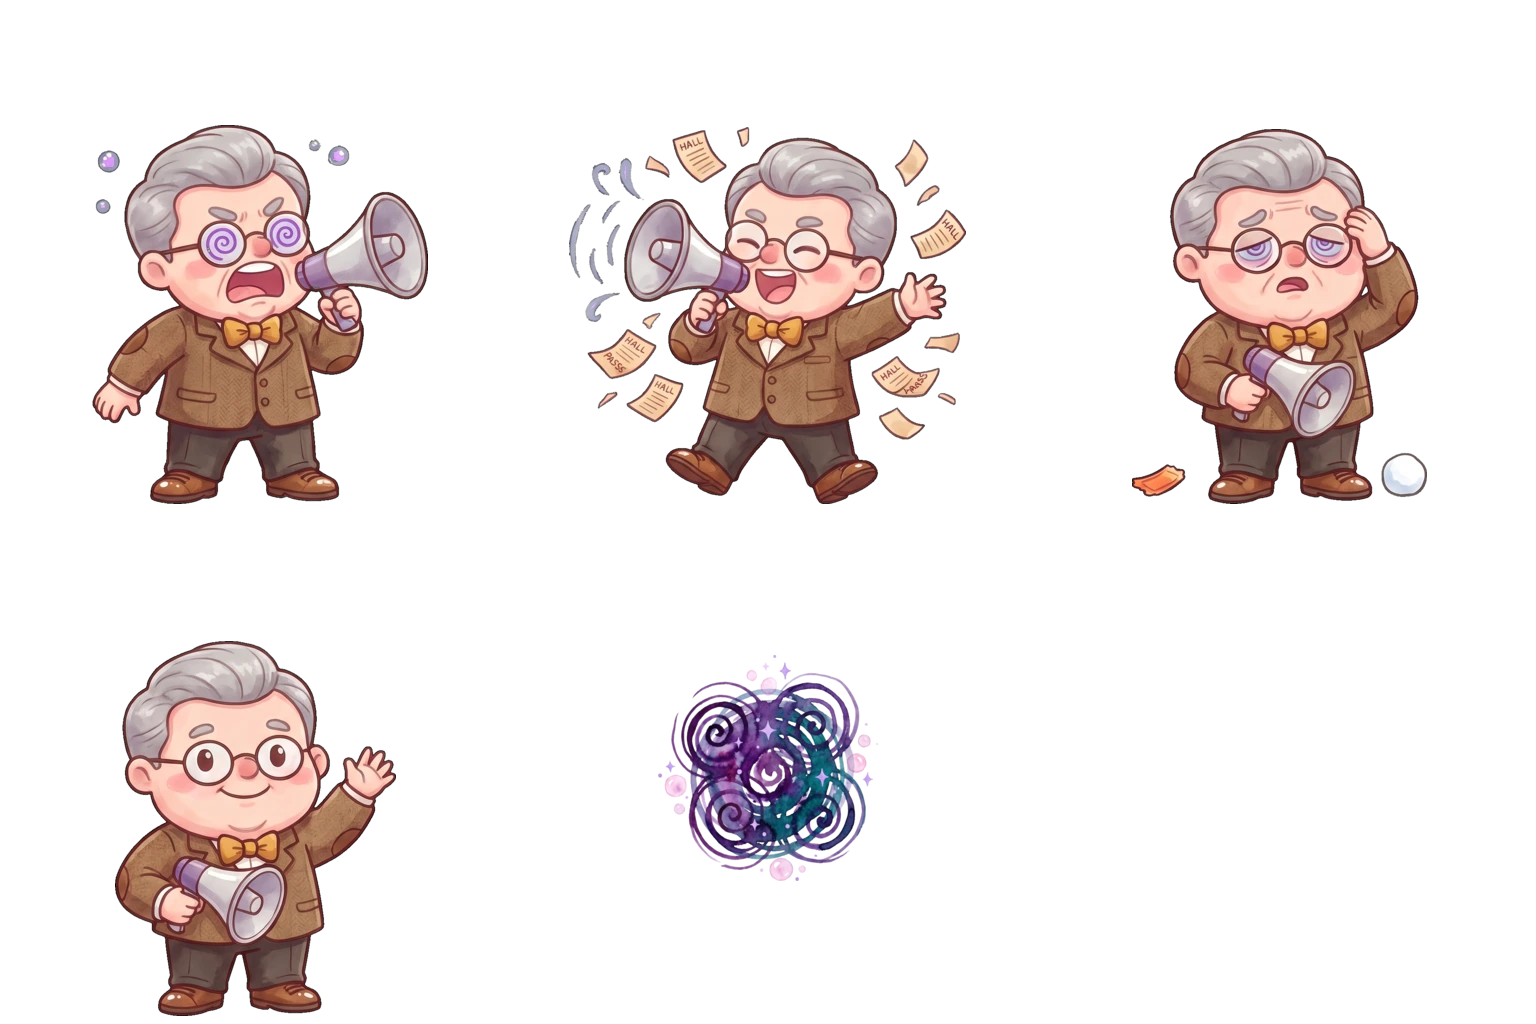
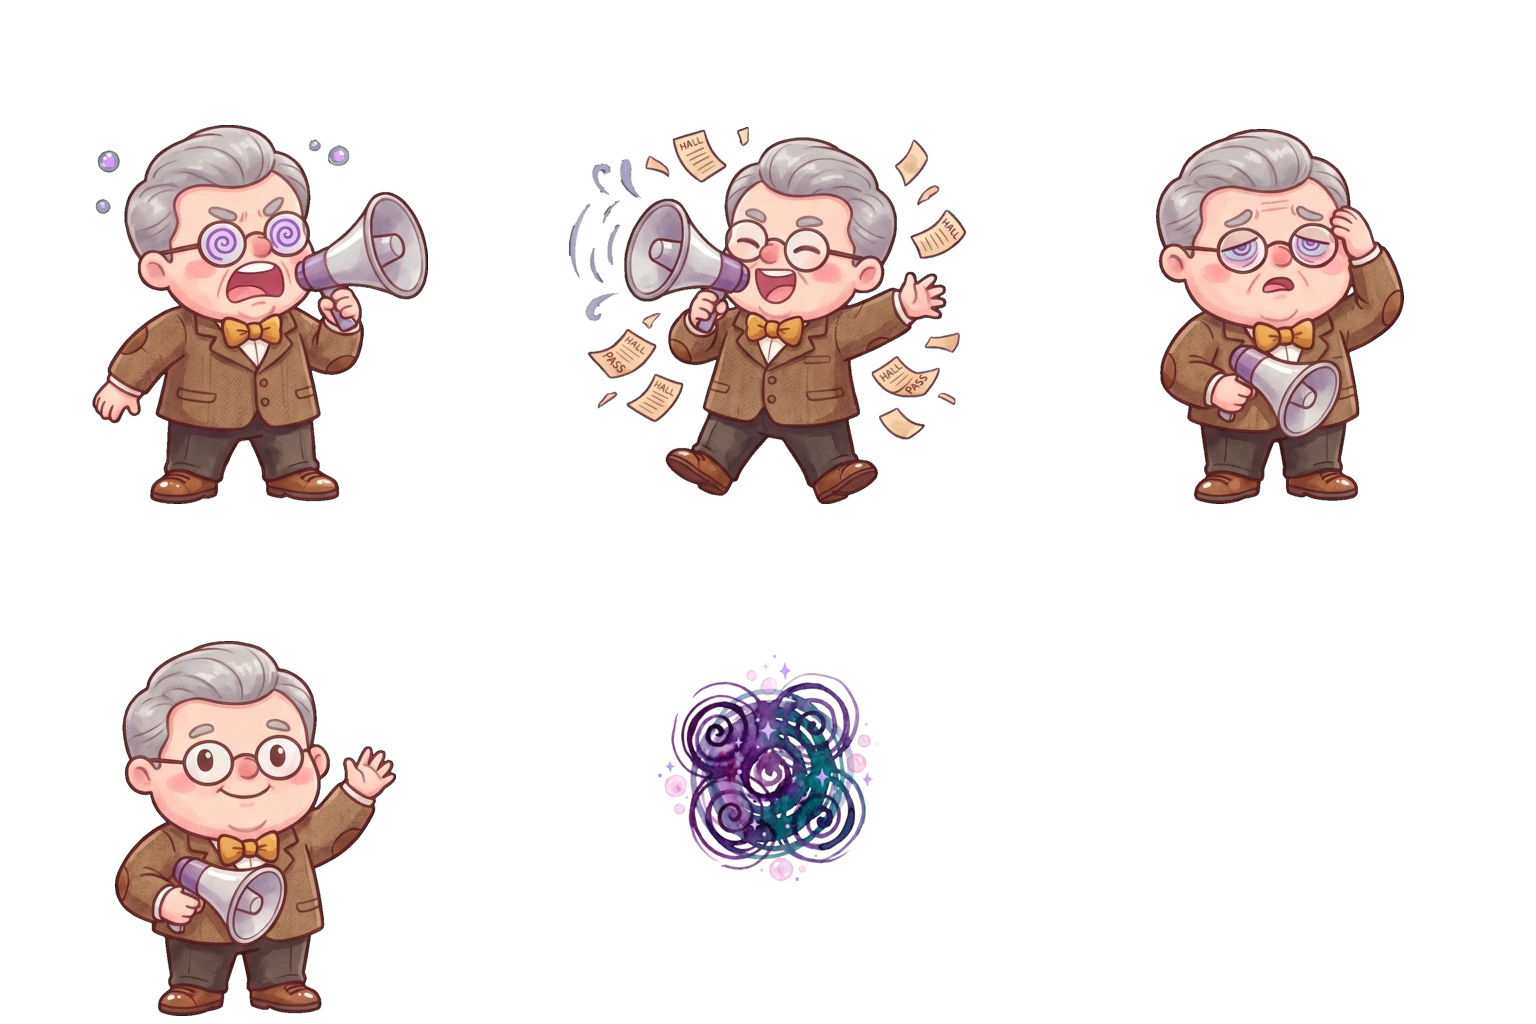
feat: Mini-boss art polish for Mr. Bell HALL PASS and Chef Mateo crease cleanup (Milestone 103)

Changed region(s): [[0.7188, 0.125, 0.9375, 0.5], [0.4375, 0.125, 0.4688, 0.1875], [0.5938, 0.2188, 0.625, 0.25]]

diff --git a/docs/review-queue.md b/docs/review-queue.md
@@ -100,15 +100,15 @@ journal gallery baselines were viewed at phone and desktop sizes.
 | The art teacher (Milestone 63) | Ms. Rowan's name, a placeholder following the staff's tree names; her lines, the knots `art_room`, `art_teacher`, `art_easels`, `art_paintings`, `art_sink`, and `art_markers` in `content/story/main.ink`, plus her journal lines; her sheet (`art/review/m63-rowan.jpg`) and its changes from the concept, with no green on her, orange, purple, yellow, and royal-blue splatters, purple rather than magenta brush paint, and the green `#00FF00` key; the art room and its three-prop kit, the work table kept painted (`art/review/m63-art-room.jpg`, with the kit's depth preview and overlay in `art/review/art-room-depth.jpg` and `art-room-overlay.jpg`, and the game at both sizes in both engines in `art/review/m63-art-room-e2e.jpg`); the flower Trace shape, which reads as a four-petal flower or a star (`art/review/m63-shapes.jpg`); the east hall's closed and open art-room door (`art/review/m63-hall-door.jpg`); the milestone's 40 Gemini calls plus one rejected (8 for the sheet, 32 for the room, its kit, and the hall's door; the working tally had said 22); in the game, `tests/e2e/art.spec.ts-snapshots/` |
 | Wake up (Milestone 56) | The morning: Fae and Maddie, Mom at the bedroom door, and Milo in his calmer hoodie by the kitchen's front door (the hoodie's second look, beside the battle sheet's patchwork). The credits sheet: THE END, FRIENDS, MET ALONG THE WAY, and "Thank you for playing!", each entry a sticker on one frame (friends on `down_idle_01`, critters on their sticker's frame), and on a phone, a sheet that scrolls. Milo's choices under the tree ([Watch the tree glow], [Not yet]), and the wording in `docs/plan.md` (Milestone 56). In the game, `tests/e2e/ending.spec.ts-snapshots/` and `ui-gallery.spec.ts-snapshots/credits-*` |
 | The lifeguard (Milestone 64) | Ms. Coral (placeholder), her sheet (`public/assets/critters/lifeguard/`), recipe (`art/recipes/lifeguard.json`), review (`art/review/m64-lifeguard.jpg`), her look (a muted coral swimsuit, and the flying balls in her burst pose drawn smaller than the one she holds); story knots `bay_picnic` and `lifeguard`; set piece at (760, 590); grumpy, hungry, curious feelings; three-snack reward; beach balls at `toyScale` 0.5; in `tests/e2e/lifeguard.spec.ts-snapshots/` |
-| More bad guys (Milestone 69) | Snappy Crab (`art/review/m69-crab-sheet-cream.jpg`, `m69-crab-sheet-dark.jpg`), Waddle Penguin (`m69-penguin-sheet-cream.jpg`, `m69-penguin-sheet-dark.jpg`), and Mr. Bell the principal (`m69-principal-sheet-cream.jpg`, `m69-principal-sheet-dark.jpg`; note "HALL PASSS" on burst flying paper and stray ticket/sphere near feet in soothed frame); 20-slot album and credits; in `tests/e2e/more-bad-guys.spec.ts-snapshots/` |
+| More bad guys (Milestone 69) | Snappy Crab (`art/review/m69-crab-sheet-cream.jpg`, `m69-crab-sheet-dark.jpg`), Waddle Penguin (`m69-penguin-sheet-cream.jpg`, `m69-penguin-sheet-dark.jpg`), and Mr. Bell the principal (`m69-principal-sheet-cream.jpg`, `m69-principal-sheet-dark.jpg`; `"HALL PASSS"` / garbled burst hall passes and stray ticket/sphere near feet in soothed frame fixed in Milestone 103, see `art/review/m99-principal-clean-cream.jpg`, `art/review/m99-principal-clean-dark.jpg`); 20-slot album and credits; in `tests/e2e/more-bad-guys.spec.ts-snapshots/` |
 | Crystal Cavern (World expansion) | Painted cavern cutaway + crystal stepping stones (`art/recipes/cavern.json`, `art/review/cavern-overlay.jpg`, `cavern-depth.jpg`, `cavern-frames.jpg`, `cavern-gameplay.jpg`), Duzzy Bat / Cozy Bat (`art/review/cavern-bat-sheet-cream.jpg`, `cavern-bat-sheet-dark.jpg`), Glimmer Mole / Gem Mole (`art/review/cavern-mole-sheet-cream.jpg`, `cavern-mole-sheet-dark.jpg`), blacklight mural + stepping-stone crossing, Star Chime Geode lasso puzzle + clubhouse chest keepsake, Pond Pup crystal spring dive, 22-slot album and credits; in `tests/e2e/cavern.spec.ts-snapshots/` |
 | Bon Appetit Café & Townspeople (Milestone 79) | Painted café cutaway (`art/recipes/cafe.json`, `art/review/cafe-{overlay,depth,frames,gameplay}.jpg`), five blinking Cloverhollow townspeople (`dad`, `chef`, `barnaby`, `bree`, `toby` in `art/recipes/townspeople.json`, `art/review/cafe-townspeople-{cream,dark}.jpg`), plaza teal door entry, Chef Bea's Star Cinnamon errand & Bon Appetit Star Pin keepsake, Dad/Barnaby/Bree/Toby dialogue; in `tests/e2e/cafe.spec.ts-snapshots/` |
 | Star Gems & Ribbon Bunny (Milestone 80) | Ribbon Bunny 4-direction hop-walk follower atlas (`art/recipes/ribbon-bunny.json`, `art/review/ribbon-bunny-contact-{cream,dark}.jpg`, passing `validate-sprite.ts` with pale-fur highlight clipping excluded from blockiness), Battle Flute Assist (`+15` calm + `+1` Together! star), seven world Star Gems across 7 regions, Grandpa Barnaby's 3-gem & 7-gem rewards + Rainbow Star Geode keepsake, conditional lavender Journal `Gems N/7` pill, 6-friend credits; in `art/review/gems-bunny-gameplay.jpg` and `tests/e2e/gems-bunny.spec.ts-snapshots/` |
-| Peekaboo, Starry Owl & Chef Mateo (Milestone 82) | Peekaboo battle check sticker UI (`battle-peekaboo` gallery baselines & `art/review/m81-festival-gameplay.jpg`), Starry Owl (`art/recipes/moon-owl.json`, `art/review/m81-moon-owl-{cream,dark}.jpg`), Chef Mateo (`art/recipes/taco-chef.json`, `art/review/m81-taco-chef-{cream,dark}.jpg`; note cap flips backwards in chaos/soothed vs forwards in burst/calm and a tiny 24 px magenta speck in soothed's arm-cheek crease), 3-knot town-clue Talk phase, 24-slot album & credits; in `tests/e2e/m81-festival.spec.ts-snapshots/` |
+| Peekaboo, Starry Owl & Chef Mateo (Milestone 82) | Peekaboo battle check sticker UI (`battle-peekaboo` gallery baselines & `art/review/m81-festival-gameplay.jpg`), Starry Owl (`art/recipes/moon-owl.json`, `art/review/m81-moon-owl-{cream,dark}.jpg`), Chef Mateo (`art/recipes/taco-chef.json`, `art/review/m81-taco-chef-{cream,dark}.jpg`; note cap flips backwards in chaos/soothed vs forwards in burst/calm; trapped magenta crease specks across poses and stray burst crumb fixed in Milestone 103, see `art/review/m99-taco-chef-clean-cream.jpg`, `art/review/m99-taco-chef-clean-dark.jpg`), 3-knot town-clue Talk phase, 24-slot album & credits; in `tests/e2e/m81-festival.spec.ts-snapshots/` |
 | Bubblegum Bay Fishing (Milestone 88) | Painted dock vista (`public/assets/arcade/fishing-dock.webp`) and 6-item catches atlas (`art/recipes/fishing.json`, `art/review/fishing-catches-{cream,dark}.jpg`), flexing rod/bobber/reel-in/Catch Book UI (`art/review/fishing-gameplay.jpg`, `tests/e2e/fish.spec.ts-snapshots/`, `ui-gallery.spec.ts-snapshots/arcade-fish-*`) |
 | The Wildlife Sanctuary (Milestone 92) | Painted alpine meadow + 7-prop WebP kit (`art/recipes/sanctuary.json`, `art/review/sanctuary-{overlay,depth,frames,gameplay}.jpg`), blinking Ranger Fern (`art/recipes/fern.json`, `art/review/sanctuary-fern-{cream,dark}.jpg`), all 17 calmed animal visitors (`visibleWhenCalmed`, `"Pet"` prompt), Sanctuary milestones & Clover Wreath keepsake; in `tests/e2e/sanctuary.spec.ts-snapshots/` |
 | Sue's Beach Cottage & Jordan's Mountain Cabin (Milestone 94) | Two painted cutaway friend homes + alpha-WebP basket kits (`art/recipes/friend-homes.json`, `art/review/{sue-cottage,jordan-cabin}-{overlay,depth}.jpg`, `art/review/friend-homes-gameplay.jpg`), emissive sea-glass lamp & cabin lantern halos, blacklight secret notes, Sea-Glass Compass & Pressed Alpine Clover keepsakes; in `tests/e2e/friend-homes.spec.ts-snapshots/` |
-| Buster the Bus Driver & Regional Souvenir Stands (Milestone 97) | Buster's 4-frame blinking idle atlas (`public/assets/characters/buster/`, `art/recipes/buster.json`, `art/review/m91-buster-sheet.jpg`), Plaza placement at (515, 780) between the notice board and archway (`art/review/m91-buster-plaza-1280.jpg`, `art/review/m91-buster-plaza-874.jpg`), Star-Line Stamp Card errand (`buster`, `bay_souvenirs`, `pass_souvenirs`, Golden Star-Line Whistle keepsake + 25 coins + 2 snacks), regional specialty treats (`Sea-Salt Taffy` 9c at Bubblegum Bay `art/review/m91-bay-souvenirs-1280.jpg` and `Maple Pine Brittle` 11c at Pinecone Pass), and refreshed Plaza baselines (`bus-stop-plaza`, `plaza`) |
-| Living Biome Shopkeepers & Golden Star-Line Whistle Keepsake (Milestone 98) | Bay Keeper (`public/assets/characters/bay-keeper/`, `art/recipes/bay-keeper.json`, `art/review/m92-bay-keeper-sheet.jpg`, `art/review/m92-bay-keeper-1280.jpg`) at Bubblegum Bay (785, 455) and Pass Keeper (`public/assets/characters/pass-keeper/`, `art/recipes/pass-keeper.json`, `art/review/m92-pass-keeper-sheet.jpg`, `art/review/m92-pass-keeper-1280.jpg`) at Pinecone Pass (1190, 910) with adult dialogue portraits; Golden Star-Line Whistle keepsake (`keepsakeWhistle` / `star-whistle`) on the Clubhouse round window sill (`art/review/m92-clubhouse-whistle-1280.jpg`); and clean non-clipping `.qa-console-save` export box baseline (`tests/e2e/qa.spec.ts-snapshots/qa-console-export-chromium-darwin.png`) |
-| JRPG Comfort & Craft Suite (Milestone 99) | Dialogue & battle `TextSpeed` (`Cozy` / `Brisk` / `Instant`), in-game `Reduced Motion` toggle (`data-reduced-motion="on"` + calm battle choreography), Journal `OPTIONS` right page with all four Gameplay controls (`art/review/m93-options-1280.jpg`, `art/review/m93-options-874.jpg`), and interactive Journal `MAP` Field Treasures Card (`treasuresSummary`: Star-Line Stamp Card, Clubhouse Keepsakes, Bubblegum Bay Catch Book species; `art/review/m93-treasures-1280.jpg`, `art/review/m93-treasures-874.jpg`) |
-| Living World Landmarks (Milestone 100) | Nurse Holly's post-`hall_pass` clinic check-in & free +2 snack top-up (`nurse.thanks`, `art/review/m94-nurse-holly-1280.jpg`), Bubblegum Bay community pastel rowboats (`bay-boats` at (1350, 650), `bay_boats`, Sea-Glass Clover +10 coins + Journal note, `art/review/m94-bay-boats-1280.jpg`), and Pinecone Pass Wildlife Sanctuary board (`pass-sanctuary` at (1400, 640), `pass_sanctuary`, dynamic 8-species tally + Sanctuary Ranger Basket +12 coins & +2 snacks + Journal note, `art/review/m94-pass-sanctuary-1280.jpg`) |
+| Buster the Bus Driver & Regional Souvenir Stands (Milestone 98) | Buster's 4-frame blinking idle atlas (`public/assets/characters/buster/`, `art/recipes/buster.json`, `art/review/m91-buster-sheet.jpg`), Plaza placement at (515, 780) between the notice board and archway (`art/review/m91-buster-plaza-1280.jpg`, `art/review/m91-buster-plaza-874.jpg`), Star-Line Stamp Card errand (`buster`, `bay_souvenirs`, `pass_souvenirs`, Golden Star-Line Whistle keepsake + 25 coins + 2 snacks), regional specialty treats (`Sea-Salt Taffy` 9c at Bubblegum Bay `art/review/m91-bay-souvenirs-1280.jpg` and `Maple Pine Brittle` 11c at Pinecone Pass), and refreshed Plaza baselines (`bus-stop-plaza`, `plaza`) |
+| Living Biome Shopkeepers & Golden Star-Line Whistle Keepsake (Milestone 99) | Bay Keeper (`public/assets/characters/bay-keeper/`, `art/recipes/bay-keeper.json`, `art/review/m92-bay-keeper-sheet.jpg`, `art/review/m92-bay-keeper-1280.jpg`) at Bubblegum Bay (785, 455) and Pass Keeper (`public/assets/characters/pass-keeper/`, `art/recipes/pass-keeper.json`, `art/review/m92-pass-keeper-sheet.jpg`, `art/review/m92-pass-keeper-1280.jpg`) at Pinecone Pass (1190, 910) with adult dialogue portraits; Golden Star-Line Whistle keepsake (`keepsakeWhistle` / `star-whistle`) on the Clubhouse round window sill (`art/review/m92-clubhouse-whistle-1280.jpg`) and 9/9 unified Journal Keepsakes Gallery; and clean non-clipping `.qa-console-save` export box baseline (`tests/e2e/qa.spec.ts-snapshots/qa-console-export-chromium-darwin.png`) |
+| JRPG Comfort & Craft Suite (Milestone 100) | Dialogue & battle `TextSpeed` (`Cozy` / `Brisk` / `Instant`), in-game `Reduced Motion` toggle (`data-reduced-motion="on"` + calm battle choreography), Journal `OPTIONS` right page with all four Gameplay controls (`art/review/m93-options-1280.jpg`, `art/review/m93-options-874.jpg`), and interactive Journal `MAP` Field Treasures Card (`treasuresSummary`: Star-Line Stamp Card, 9 Clubhouse Keepsakes, 6 Bubblegum Bay Catch Book species; `art/review/m93-treasures-1280.jpg`, `art/review/m93-treasures-874.jpg`) |
+| Living World Landmarks (Milestone 101) | Nurse Holly's post-`hall_pass` clinic check-in & free +2 snack top-up (`nurse.thanks`, `art/review/m94-nurse-holly-1280.jpg`), Bubblegum Bay community pastel rowboats (`bay-boats` at (1350, 650), `bay_boats`, Sea-Glass Clover +10 coins + Journal note, `art/review/m94-bay-boats-1280.jpg`), and Pinecone Pass Wildlife Sanctuary board (`pass-sanctuary` at (1400, 640), `pass_sanctuary`, dynamic 8-species tally + Sanctuary Ranger Basket +12 coins & +2 snacks + Journal note, `art/review/m94-pass-sanctuary-1280.jpg`) |

diff --git a/docs/plan.md b/docs/plan.md
@@ -4655,7 +4655,7 @@ the old trail, the owl, and the clubhouse claim.
   independently inspected and passed with `vision`.
 - Gates: `just check`, `just build`, and full e2e verified across Chromium & WebKit.
 
-## Milestone 95: Living Biome Shopkeepers, Golden Star-Line Whistle Clubhouse Display & QA Console Polish **Status:** ✅ Completed (2026-11-27)
+## Milestone 99: Living Biome Shopkeepers, Golden Star-Line Whistle Clubhouse Display & QA Console Polish **Status:** ✅ Completed (2026-11-27)
 - Turns Bubblegum Bay's and Pinecone Pass's regional souvenir stops into living
   biome shopkeepers (`NOTES.md` biome NPCs), displays Buster's Golden Star-Line
   Whistle on the Living Clubhouse window sill, and resolves the `.qa-console-save`
@@ -4691,7 +4691,7 @@ the old trail, the owl, and the clubhouse claim.
 - Gates: `just check` (150 unit files / 1,190 tests, all 65 sims, 23 QA packs,
   purity, lint), `just build`, and targeted e2e (34/34 Chromium passed).
 
-## Milestone 96: JRPG Comfort & Craft Suite — Text Speed, In-Game Reduced Motion & Journal Field Treasures Card **Status:** ✅ Completed (2026-11-27)
+## Milestone 100: JRPG Comfort & Craft Suite — Text Speed, In-Game Reduced Motion & Journal Field Treasures Card **Status:** ✅ Completed (2026-11-27)
 - Adds classic JRPG comfort & accessibility controls plus an interactive
   Journal Field Treasures showcase with zero save-version bumps and zero replay
   hash drift across all 65 recorded sims.
@@ -4728,7 +4728,7 @@ the old trail, the owl, and the clubhouse claim.
 - Gates: `just check` (152 unit files / 1,207 tests, all 65 sims, 23 QA packs,
   purity, lint), `just build`, and 58/58 targeted Chromium + WebKit e2e tests.
 
-## Milestone 97: Living World Landmarks — Nurse Holly Clinic Care, Bubblegum Bay Rowboat Cruise & Pinecone Pass Wildlife Sanctuary **Status:** ✅ Completed (2026-11-27)
+## Milestone 101: Living World Landmarks — Nurse Holly Clinic Care, Bubblegum Bay Rowboat Cruise & Pinecone Pass Wildlife Sanctuary **Status:** ✅ Completed (2026-11-27)
 - Completes the remaining cozy `NOTES.md` biome & school touchpoints with zero
   `src/core` changes, zero save-version bumps, and zero replay hash drift
   across all 65 recorded sims.
@@ -4759,7 +4759,7 @@ the old trail, the owl, and the clubhouse claim.
 - Gates: `just check` (153 unit files / 1,214 tests, all 65 sims, 23 QA packs,
   purity, lint), `just build`, and 17/17 targeted Chromium + WebKit e2e tests.
 
-## Milestone 98: Complete 20-Track Original Soundtrack — Wildlife Sanctuary, Ski Lodge, Clubhouse & Fishing Dock Themes **Status:** ✅ Completed (2026-11-27)
+## Milestone 102: Complete 20-Track Original Soundtrack — Wildlife Sanctuary, Ski Lodge, Clubhouse & Fishing Dock Themes **Status:** ✅ Completed (2026-11-27)
 - Gives the final four iconic spaces their own bespoke multi-voice Web Audio
   scores and track-aligned dialogue harmonic scales — expanding the Journal
   Music Box Jukebox from 16 to **20 original composed themes** with zero replay
@@ -4782,6 +4782,38 @@ the old trail, the owl, and the clubhouse claim.
   `tests/e2e/soundtrack.spec.ts` (12/12 Chromium & WebKit).
 - Gates: `just check` (157 unit files / 1,234 tests, all 66 sims, 23 QA packs,
   purity, lint), `just build`, and 32/32 targeted Chromium + WebKit e2e tests.
+
+## Milestone 103: Mini-Boss Art Polish — Mr. Bell "HALL PASS" & Soothed Cleanup + Chef Mateo Crease Cleanup **Status:** ✅ Completed (2026-11-27)
+- Resolves the final two documented art defects in `docs/review-queue.md`
+  cleanly at the source (`art/source/critters/*/body-sheet-raw.png`) with zero
+  code or simulation changes.
+- Mr. Bell (`principal`):
+  - Single targeted Gemini edit on the cropped `chaos_burst_01` quadrant fixed
+    both misspelled flying paper slips (`HALL PASSS` / garbled `HALL AAASS`) to
+    crisp `HALL PASS` while keeping `chaos_idle_01` and `calm_idle_01`
+    bit-identical (`0` pixel diffs).
+  - Removed the two disconnected stray ground objects flanking his shoes in
+    `soothed_01` at the source (`#FF00FF`), rebuilt via
+    `bun tools/art/build-person.ts principal` + `optimize-atlases.ts`
+    (`principal.webp`, PSNR `46.58 dB`), passing `critter-check.ts` with
+    `spill=0 keyLeft=0 chromaLeft=0 edgeKey=0 debris=0 cuts=0` and
+    `soothed_01 components=1`.
+- Chef Mateo (`taco-chef`):
+  - Restored darkened/anti-aliased magenta pixels in 5 tight enclosed creases
+    (`soothed_01` arm-cheek & boot/pants, `chaos_burst_01` neck/collar,
+    `chaos_idle_01` jaw/sleeve, `calm_idle_01` thumb-finger notch) back to pure
+    `#FF00FF` and cleared the isolated floating crumb under the upper-right
+    taco in `chaos_burst_01`, rebuilt via `build-person.ts` +
+    `optimize-atlases.ts` (`taco-chef.webp`, PSNR `46.52 dB`), passing
+    `critter-check.ts` cleanly (`chaos_burst_01 components=5`).
+- Evidence: `art/review/m99-principal-clean-{cream,dark}.jpg` and
+  `art/review/m99-taco-chef-clean-{cream,dark}.jpg` independently audited and
+  passed with `vision`; updated `art/recipes/{principal,taco-chef}.json`,
+  `docs/review-queue.md`, and the 3 refreshed Chromium snapshots
+  (`m81-mateo-talk-1280`, `credits-{1180x820,1280x720}`).
+- Gates: `just check` (157 unit files / 1,234 tests, all 66 sims, 23 QA packs,
+  purity, lint), `just build`, and targeted `more-bad-guys.spec`,
+  `m81-festival.spec`, and `ui-gallery.spec` passed across Chromium & WebKit.
 
 ## Roadmap after Milestone 19
 Chapter one ends with the purple hood's Cloverhollow School name tag.

diff --git a/spec.md b/spec.md
@@ -1,6 +1,6 @@
 # Wilds of Cloverhollow: spec
 
-Last updated: 2026-11-27 (Milestone 101)
+Last updated: 2026-11-27 (Milestone 103)
 
 This file is the single source of truth. If code changes behavior, interfaces,
 file formats, or decisions, update this file in the same commit. The previous
